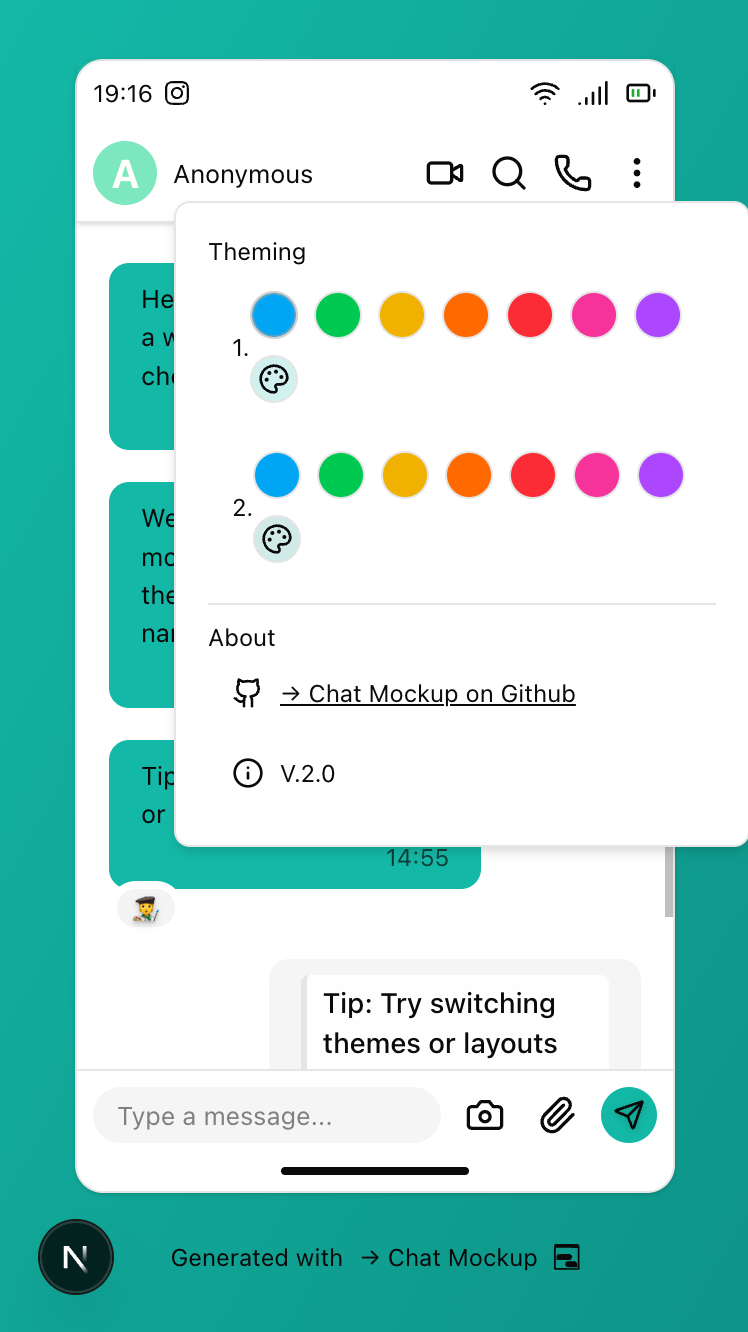
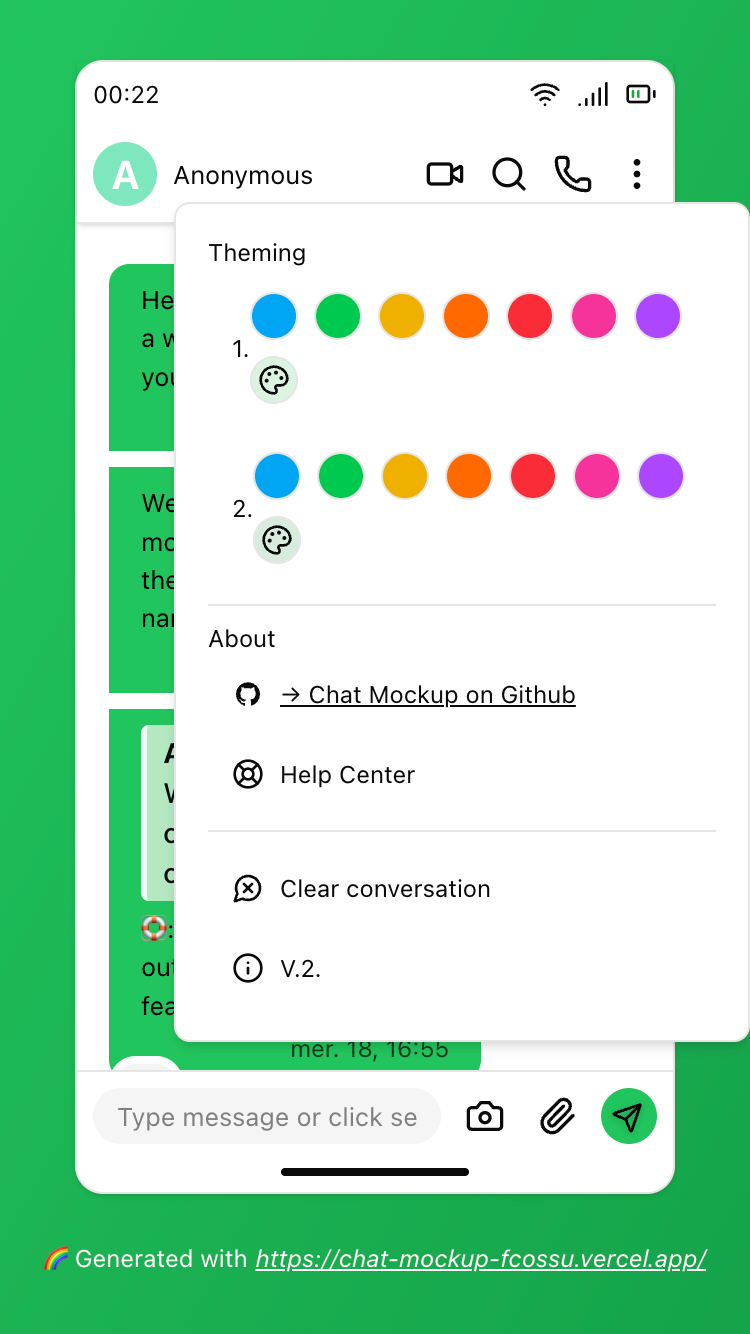
Hotfix and update - Hotfix of styling for desktop version with mobile layout, - Took the opportunity to update project description in readme file, - Added new screenshots, - Updated old screenshots, - Updated manifest json file

diff --git a/app/page.tsx b/app/page.tsx
@@ -43,6 +43,8 @@ export default function ChatMockup() {
     setIconColor(getContrastColor(color1));
   }, [color1, color2]);
 
+  if (!isMobile && layout == "mobile") {}
+
   // Auto scroll to bottom
   const containerRef = useRef<HTMLDivElement>(null);
   const bottomRef = useRef<HTMLDivElement>(null);
@@ -92,13 +94,13 @@ export default function ChatMockup() {
 
   function twStyleConstructor(layout: string) {
     if (isMobile) {
-      return "h-[85dvh]";
+      return "h-[85dvh] w-4/5";
     } else {
       switch (layout) {
         case "auto":
           return "w-4/5 h-[80dvh] md:w-4/5";
         case "mobile":
-          return "w-[420px] h-[800px]";
+          return "w-[42dvh] h-[85dvh]";
         case "desktop":
           return "w-4/5 h-[80dvh]";
       }
@@ -118,7 +120,7 @@ export default function ChatMockup() {
         <div className="flex flex-col m-0 p-0 w-[100vw] h-[100vh] items-center justify-items-center justify-center">
           <Card
             className={cn(
-              `w-4/5 m-0 p-0 mb-6 gap-0`,
+              `m-0 p-0 mb-6 gap-0`,
               twStyleConstructor(layout)
             )}
           >

diff --git a/README.md b/README.md
@@ -49,20 +49,22 @@
 
 <!-- ![image](public/imgs/product_screenshot.png) -->
 
-Sometimes you want to share a screenshot from a conversation you just had with someone on a messaging app and don't want to waste time hiding names or entire discussion sections.
+Sharing a conversation snippet often means manually editing screenshots to hide names or irrelevant parts — a tedious and time-consuming task. **This tool lets you easily generate clean, realistic chat mockups:** simply enter the messages you want to display, and preview them as they would appear on mobile or desktop.
+
+This is ideal for sharing examples without revealing private information, or for creating polished visuals for product presentations, marketing materials, or communication demos.
 
 <table>
   <tr>
     <td><img src="public/screenshots/large_preview.png" width="200"/></td>
     <td><img src="public/screenshots/large_preview_2.png" width="200"/></td>
+    <td><img src="public/screenshots/large_preview_3.png" width="200"/></td>
     <td><img src="public/screenshots/mobile_preview.png" width="200"/></td>
     <td><img src="public/screenshots/mobile_preview_2.png" width="200"/></td>
+    <td><img src="public/screenshots/mobile_preview_3.png" width="200"/></td>
   </tr>
 </table>
 
-Well you can just use this tool to just add the message you wish to display and simulate a display on a mobile or computer which will help you. You could even use it for communication purposes for example to illustrate a presentation for product.
-
-This project is a little challenge for me to improve my programming skills.
+> **Note:** This project also serves as a personal challenge to sharpen my programming skills and experiment with new techniques.
 
 <p align="right">(<a href="#readme-top">back to top</a>)</p>
 
@@ -123,9 +125,10 @@ This app is a PWA built with `next-pwa` (see [`app/manifest.json`](app/manifest.
 > **Unregister the service worker:**
 > DevTools → `Application` tab → `Service Workers` → Click "Unregister"
 >
-> If you skip this, the browser might serve **stale cached content**, causing unexpected bugs. -->
+> If you skip this, the browser might serve **stale cached content**, causing unexpected bugs. 
 
 <p align="right">(<a href="#readme-top">back to top</a>)</p>
+-->
 
 <!-- CONTRIBUTING -->
 
